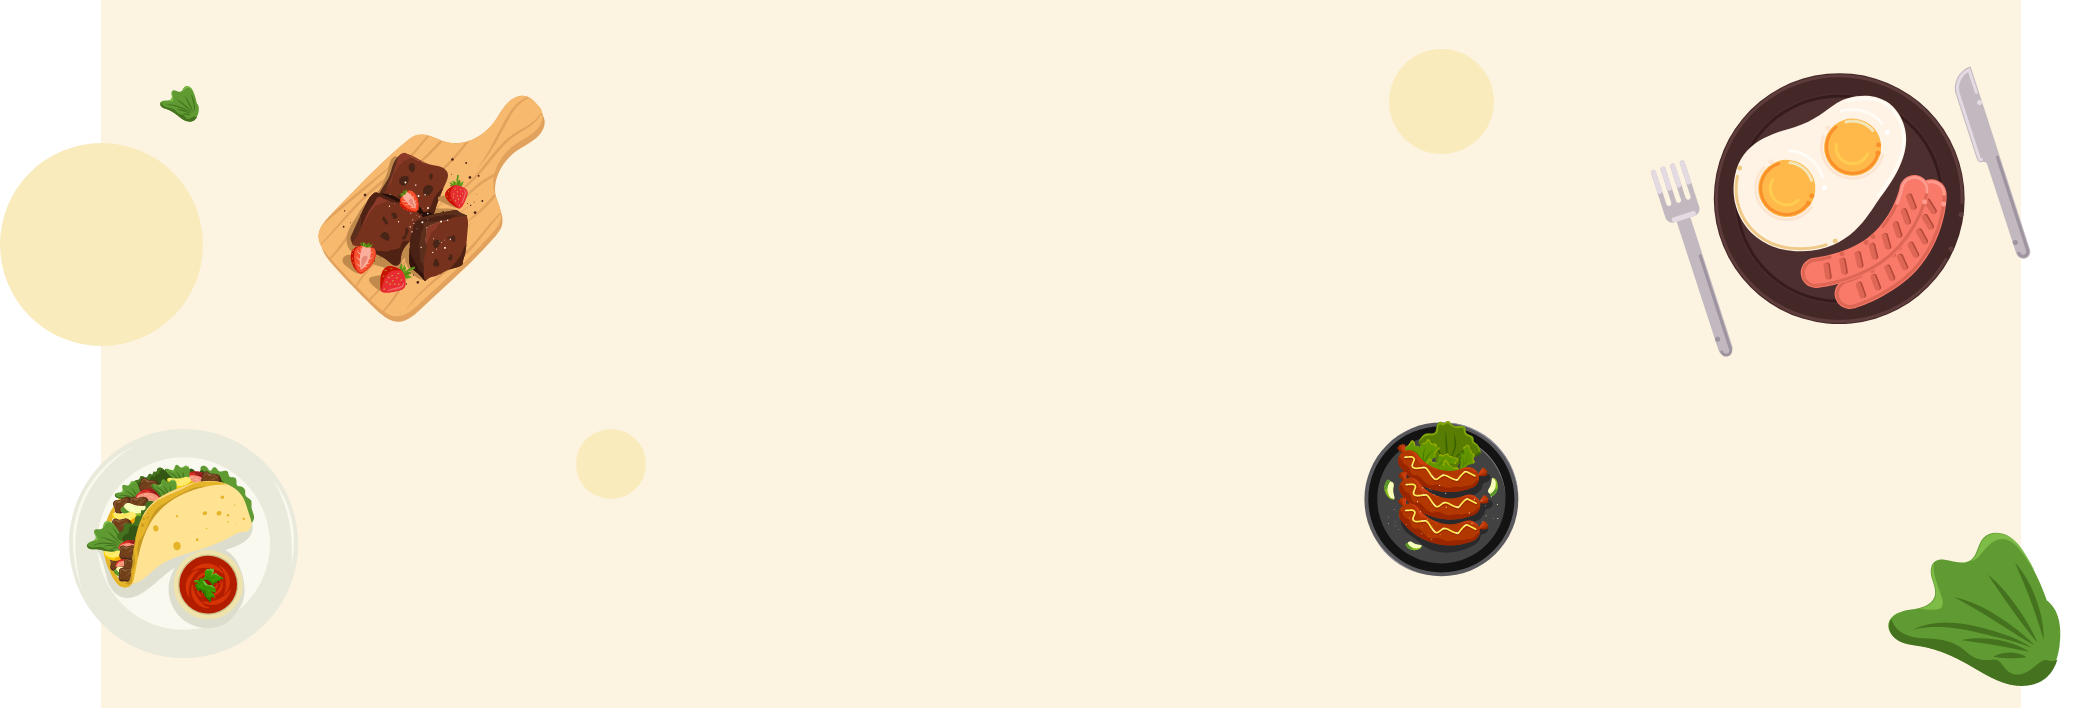
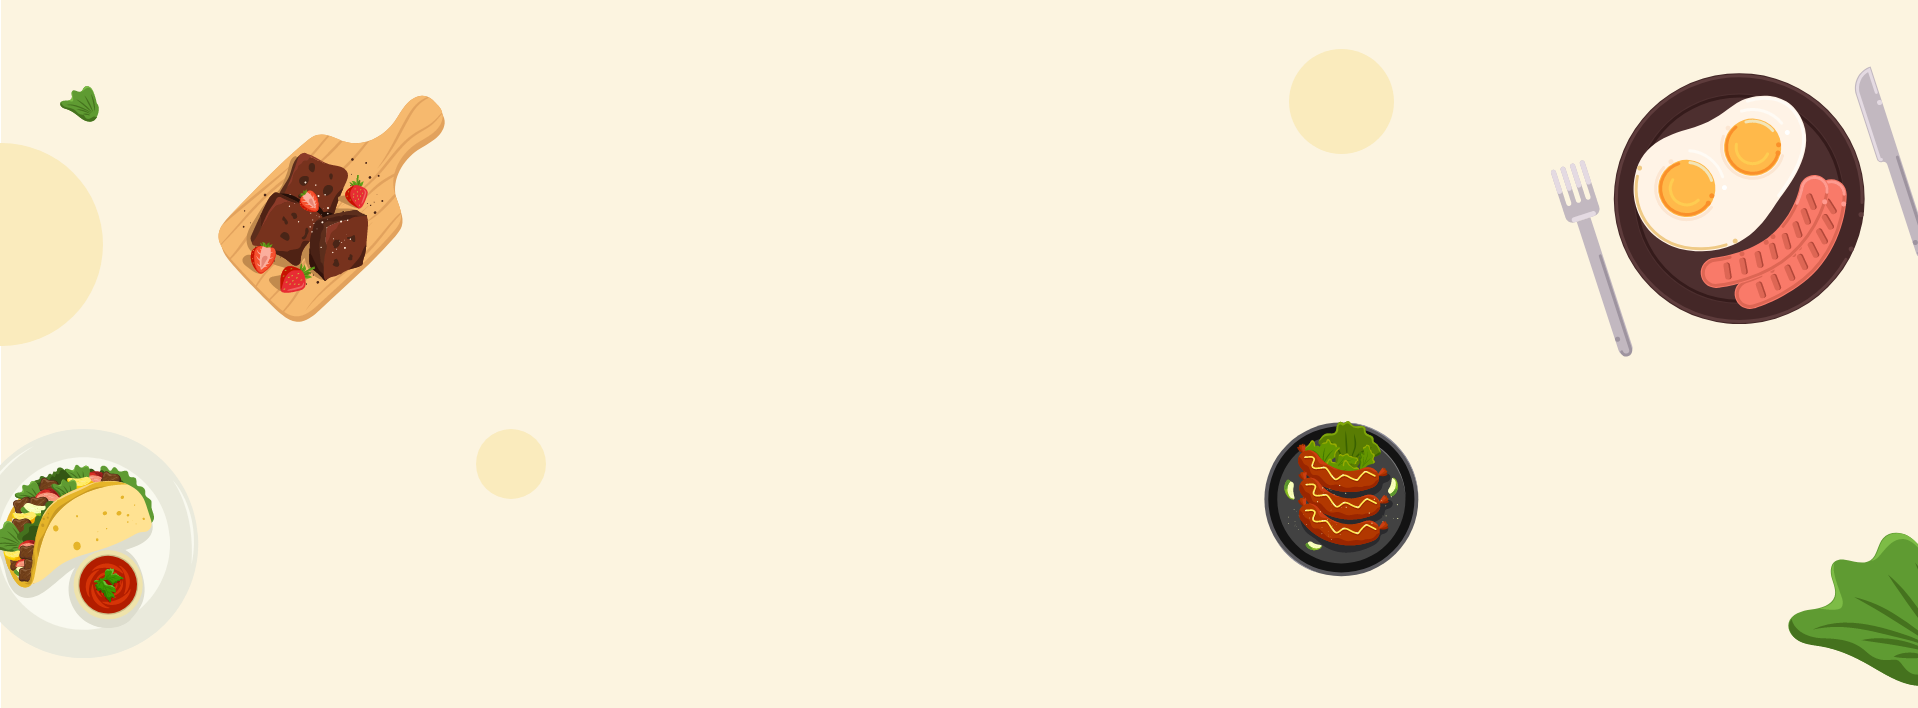
Upper part of the home component is done

diff --git a/src/Pages/Home/UpperHome/UpperHome.js b/src/Pages/Home/UpperHome/UpperHome.js
@@ -1,0 +1,18 @@
+import React from 'react';
+import backgroundImg from '../../../images/bannerbackground.png'; 
+
+const UpperHome = () => {
+    return (
+        <div className='d-flex pt-5 justify-content-center' style={{backgroundImage: `url(${backgroundImg})`, backgroundRepeat: 'no-repeat', height: '800px'}}>
+            <div className='pt-5'>
+                <h1>Best Food Waiting for your Stomach</h1>
+                <div>
+                    <input style={{border: 'none'}} className='rounded-pill fs-3 ps-5' type="text" name="" id="" />
+                    <button style={{border: 'none'}} className='ps-4 pe-4 text-info bg-danger rounded-pill fs-3'>Search</button>
+                </div>
+            </div>
+        </div>
+    );
+};
+
+export default UpperHome;

diff --git a/src/App.js b/src/App.js
@@ -1,10 +1,12 @@
 import './App.css';
+import UpperHome from './Pages/Home/UpperHome/UpperHome';
 import Header from './Shered/Header/Header';
 
 function App() {
   return (
     <div className="App">
       <Header></Header>
+      <UpperHome></UpperHome>
     </div>
   );
 }
